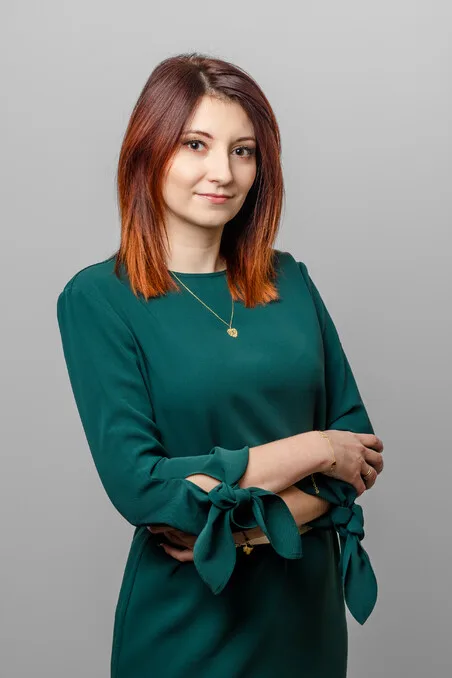
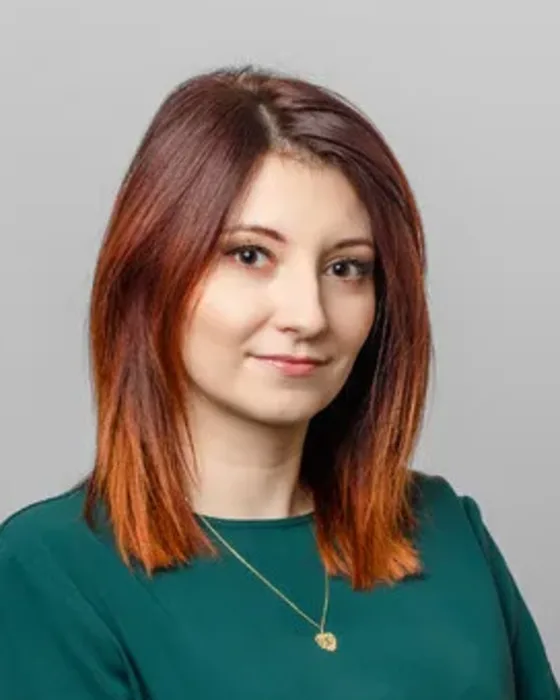
Design-critique fixy: różne CTA w hero, ujednolicony kadr 6 zdjęć, ciemniejszy --muted (kontrast), większe touch-targety
- panel: 'Rozpocznij dobór' (nie konkuruje z głównym CTA)
- 3 stare portrety przycięte do head-and-shoulders 4/5 = spójne z nowymi
- --muted #61706a -> #53615a (AA z zapasem)
- chipy/filtry min-height 40px

diff --git a/styles.css b/styles.css
@@ -4,7 +4,7 @@
   --surface:#fffdf8;
   --surface-2:#eef4ef;
   --ink:#14211d;
-  --muted:#61706a;
+  --muted:#53615a;
   --soft:#dfe9e2;
   --line:#d8e0da;
   --teal:#176b5b;
@@ -156,7 +156,7 @@ h1,h2,h3{font-family:var(--serif);font-weight:560;line-height:1.05;color:var(--t
 .zai-dot{width:8px;height:8px;border-radius:50%;background:#25a77d;box-shadow:0 0 0 4px rgba(37,167,125,.14)}
 .zai-qr-label{margin:18px 0 10px;font-size:12px;text-transform:uppercase;letter-spacing:.08em;font-weight:900;color:var(--muted)}
 .chip-row{display:flex;flex-wrap:wrap;gap:8px}
-.chip{display:inline-flex;align-items:center;gap:7px;border:1px solid var(--line);border-radius:var(--radius);background:#fff;padding:8px 10px;color:#31433d;font-size:13px;font-weight:800;cursor:pointer;transition:all .16s ease}
+.chip{display:inline-flex;align-items:center;gap:7px;min-height:40px;border:1px solid var(--line);border-radius:var(--radius);background:#fff;padding:8px 12px;color:#31433d;font-size:13px;font-weight:800;cursor:pointer;transition:all .16s ease}
 .chip:hover{border-color:var(--teal);color:var(--teal-2);transform:translateY(-1px);box-shadow:var(--shadow-sm)}
 .zai-meta{display:flex;justify-content:space-between;gap:10px;flex-wrap:wrap;padding:14px 18px;border-top:1px solid var(--line);background:#fffdf8}
 .zai-meta span{display:inline-flex;align-items:center;gap:7px;font-size:12px;color:var(--muted);font-weight:800}
@@ -265,7 +265,7 @@ h1,h2,h3{font-family:var(--serif);font-weight:560;line-height:1.05;color:var(--t
 
 /* Team */
 .filters{display:flex;gap:8px;flex-wrap:wrap;margin-bottom:24px}
-.filter{border:1px solid var(--line);border-radius:var(--radius);background:#fffdf8;color:#4d5f58;padding:8px 12px;font-weight:900;font-size:14px;cursor:pointer;transition:all .16s ease}
+.filter{display:inline-flex;align-items:center;min-height:40px;border:1px solid var(--line);border-radius:var(--radius);background:#fffdf8;color:#4d5f58;padding:8px 14px;font-weight:900;font-size:14px;cursor:pointer;transition:all .16s ease}
 .filter:hover{border-color:var(--teal);color:var(--teal-2)}
 .filter.on{background:var(--teal-2);border-color:var(--teal-2);color:#fff}
 .team-group{margin-bottom:42px}

diff --git a/index.html b/index.html
@@ -175,7 +175,7 @@
             <button class="chip" onclick="quick(null)"><i class="ti ti-dots"></i> Inne</button>
           </div>
 
-          <button class="btn btn-primary btn-block" onclick="startHeroAssistant()"><i class="ti ti-sparkles"></i> Dobierz specjalistę</button>
+          <button class="btn btn-primary btn-block" onclick="startHeroAssistant()"><i class="ti ti-arrow-right"></i> Rozpocznij dobór</button>
           <div class="zai-meta">
             <span><i class="ti ti-lock"></i> Bez zapisu danych</span>
             <span><i class="ti ti-clock-hour-4"></i> ~2 minuty</span>